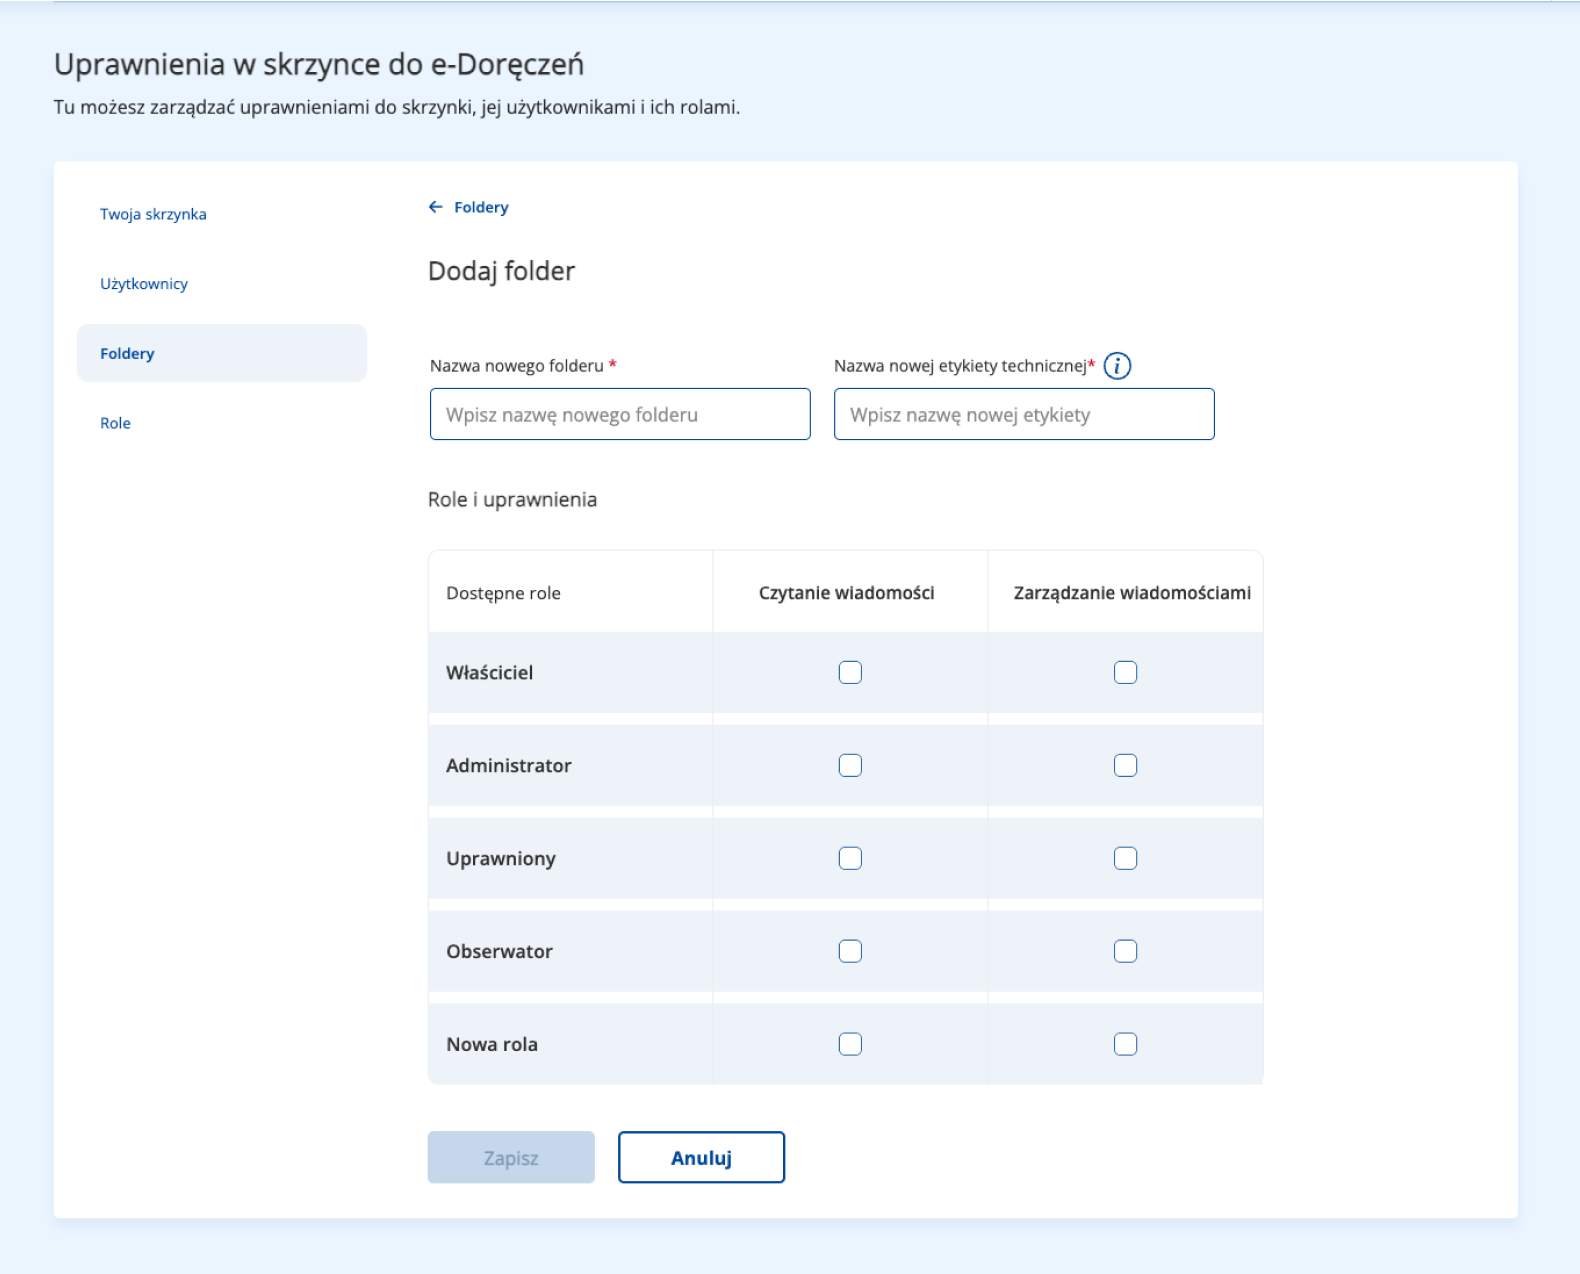
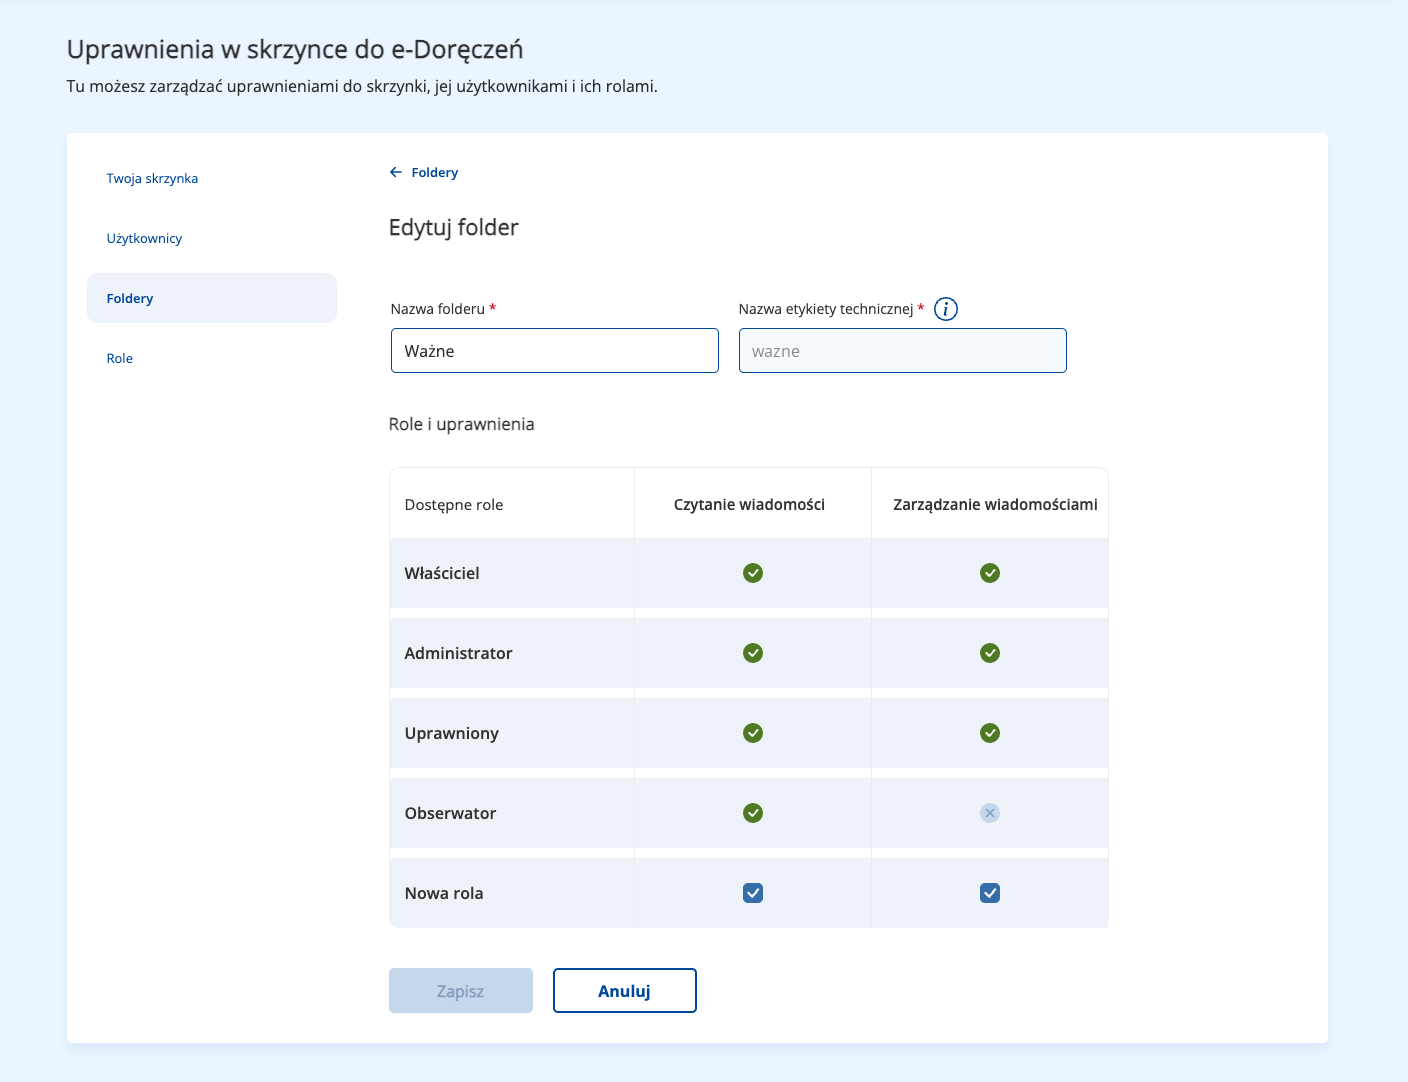
content: new folder permissions screen in e-Doręczenia case study
Replaces permissions-folder.png ("Dodaj folder", empty) with the "Edytuj
folder" screen for the "Ważne" folder. The technical label placeholder
"8LoremIpsum_-" is painted over with the field background and replaced
by "wazne" (Open Sans 15.6px, #878788, same baseline). No other pixels
changed. New alt text and caption in pl/en; content/assets.md notes the
image is a supplied screenshot, not a Figma export.

diff --git a/content/assets.md b/content/assets.md
@@ -65,7 +65,7 @@ EN and PL frames use the same images, so each row is one file with four placemen
 | e-Delivery inbox screenshot | `/images/e-doreczenia/inbox.png` | `2004:1041` | `2070:549` | `2004:2642` | `2068:259` | **crop**: fill 106.98% height, top-aligned |
 | Dashboard (desktop screenshot) | `/images/e-doreczenia/dashboard-desktop.png` | `2004:1049` | `2070:633` | `2004:2650` | `2070:629` | 644×405; overlaid by the phone mockup below |
 | Dashboard (phone mockup) | `/images/e-doreczenia/dashboard-mobile.png` | `2004:1050` | `2070:634` | `2004:2651` | `2070:630` | 299×373, overlaps the desktop shot. The layer is named "ChatGPT Image May 4, 2026"; check that it's the final asset. |
-| Permissions: folder configuration | `/images/e-doreczenia/permissions-folder.png` | `2004:1059` | `2070:613` | `2004:2660` | `2068:262` | 790×637, has caption |
+| Permissions: edit folder "Ważne" | `/images/e-doreczenia/permissions-folder.png` | `2004:1059` | `2070:613` | `2004:2660` | `2068:262` | 790×607, has caption. **Not a Figma export:** supplied screenshot (1408×1082) with the technical label placeholder "8LoremIpsum_-" replaced by "wazne". Re-exporting the nodes brings back the old "Dodaj folder" screen |
 | User details | `/images/e-doreczenia/user-details.png` | `2004:1067` | `2070:566` | `2004:2668` | `2068:265` | 790×497 |
 | Notification settings | `/images/e-doreczenia/notification-settings.png` | `2004:1074` | `2070:573` | `2004:2675` | `2068:274` | 790×498 |
 | System layers 1 (02.20.33) | `/images/e-doreczenia/layers-1.png` | `2004:1084` | `2070:584` | `2004:2685` | `2068:278` | 2×2 grid on desktop |
